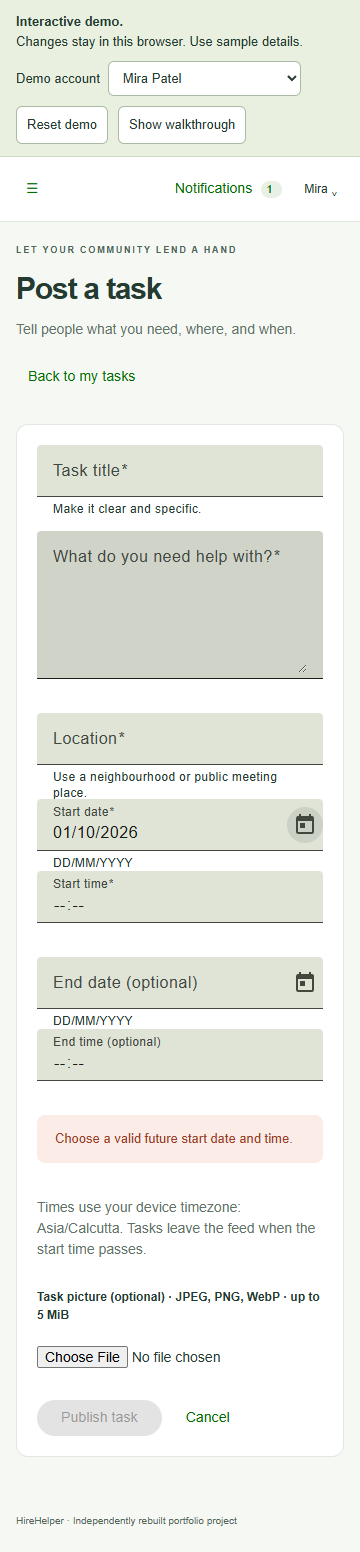
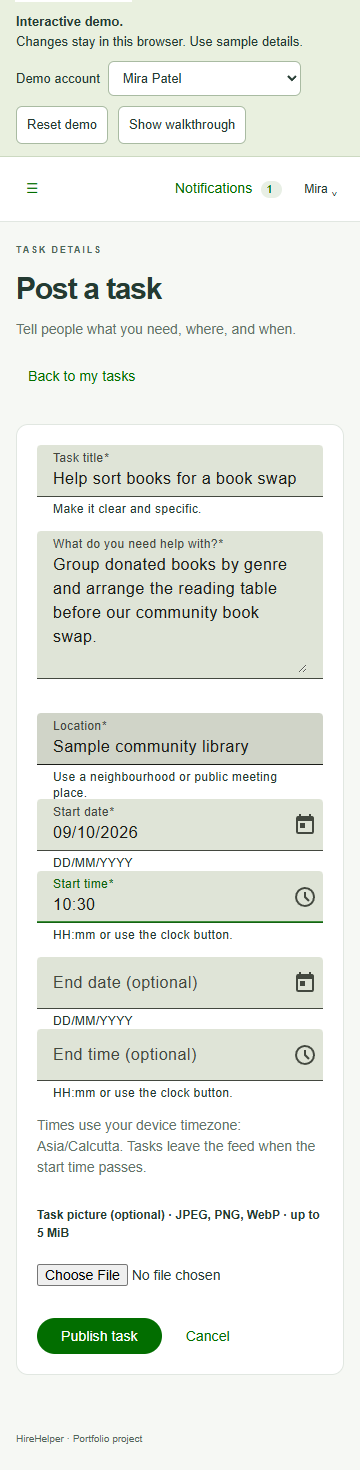
Add task time pickers

diff --git a/apps/web/src/app/task-form.ts b/apps/web/src/app/task-form.ts
@@ -5,6 +5,7 @@ import { MatButtonModule } from '@angular/material/button';
 import { MatFormFieldModule } from '@angular/material/form-field';
 import { MatInputModule } from '@angular/material/input';
 import { MatDatepickerModule } from '@angular/material/datepicker';
+import { MatTimepickerModule } from '@angular/material/timepicker';
 import {
   DateAdapter,
   NativeDateAdapter,
@@ -29,14 +30,16 @@ class TaskDateAdapter extends NativeDateAdapter {
       : new Date(NaN);
   }
 }
-function timestamp(date: Date | null, time: string): Date | null {
+function timestamp(date: Date | null, time: Date | null): Date | null {
   if (
     !(date instanceof Date) ||
     !Number.isFinite(date.getTime()) ||
-    !/^([01]\d|2[0-3]):[0-5]\d$/.test(time)
+    !(time instanceof Date) ||
+    !Number.isFinite(time.getTime())
   )
     return null;
-  const [hours, minutes] = time.split(':').map(Number);
+  const hours = time.getHours(),
+    minutes = time.getMinutes();
   const value = new Date(date.getFullYear(), date.getMonth(), date.getDate(), hours, minutes);
   // Reject a nonexistent local time during a daylight-saving transition.
   return value.getHours() === hours && value.getMinutes() === minutes ? value : null;
@@ -62,6 +65,7 @@ function schedule(control: AbstractControl) {
     MatFormFieldModule,
     MatInputModule,
     MatDatepickerModule,
+    MatTimepickerModule,
   ],
   providers: [
     { provide: DateAdapter, useClass: TaskDateAdapter },
@@ -69,8 +73,10 @@ function schedule(control: AbstractControl) {
     {
       provide: MAT_DATE_FORMATS,
       useValue: {
-        parse: { dateInput: null },
+        parse: { dateInput: null, timeInput: null },
         display: {
+          timeInput: { hour: '2-digit', minute: '2-digit', hourCycle: 'h23' },
+          timeOptionLabel: { hour: '2-digit', minute: '2-digit', hourCycle: 'h23' },
           dateInput: { day: '2-digit', month: '2-digit', year: 'numeric' },
           monthYearLabel: { month: 'short', year: 'numeric' },
           dateA11yLabel: { dateStyle: 'full' },
@@ -122,9 +128,25 @@ function schedule(control: AbstractControl) {
           </mat-form-field>
           <mat-form-field
             ><mat-label>Start time</mat-label
-            ><input matInput type="time" formControlName="startTime" /><mat-error
-              >Enter a start time.</mat-error
-            ></mat-form-field
+            ><input
+              matInput
+              [matTimepicker]="startTimePicker"
+              [matTimepickerOpenOnClick]="false"
+              formControlName="startTime"
+              placeholder="HH:mm"
+            />
+            <mat-timepicker-toggle
+              matIconSuffix
+              [for]="startTimePicker"
+              aria-label="Choose start time"
+            ></mat-timepicker-toggle>
+            <mat-timepicker
+              #startTimePicker
+              interval="15m"
+              aria-label="Start time options"
+            ></mat-timepicker>
+            <mat-hint>HH:mm or use the clock button.</mat-hint
+            ><mat-error>Enter a start time.</mat-error></mat-form-field
           >
         </div>
         <div class="form-row">
@@ -142,8 +164,26 @@ function schedule(control: AbstractControl) {
           </mat-form-field>
           <mat-form-field
             ><mat-label>End time (optional)</mat-label
-            ><input matInput type="time" formControlName="endTime"
-          /></mat-form-field>
+            ><input
+              matInput
+              [matTimepicker]="endTimePicker"
+              [matTimepickerOpenOnClick]="false"
+              formControlName="endTime"
+              placeholder="HH:mm"
+            />
+            <mat-timepicker-toggle
+              matIconSuffix
+              [for]="endTimePicker"
+              aria-label="Choose end time"
+            ></mat-timepicker-toggle>
+            <mat-timepicker
+              #endTimePicker
+              interval="15m"
+              aria-label="End time options"
+            ></mat-timepicker>
+            <mat-hint>HH:mm or use the clock button.</mat-hint
+            ><mat-error>Enter a valid time as HH:mm.</mat-error></mat-form-field
+          >
         </div>
         @if (form.touched && form.errors?.['schedule']) {
           <p class="error" role="alert">{{ form.errors?.['schedule'] }}</p>
@@ -189,9 +229,9 @@ export class TaskForm {
       ],
       location: ['', [Validators.required, Validators.minLength(2), Validators.maxLength(160)]],
       startDate: [null as Date | null, Validators.required],
-      startTime: ['', Validators.required],
+      startTime: [null as Date | null, Validators.required],
       endDate: [null as Date | null],
-      endTime: [''],
+      endTime: [null as Date | null],
     },
     { validators: schedule },
   );
@@ -202,16 +242,14 @@ export class TaskForm {
         .then((t) => {
           const start = new Date(t.startAt),
             end = t.endAt ? new Date(t.endAt) : null;
-          const time = (d: Date) =>
-            `${String(d.getHours()).padStart(2, '0')}:${String(d.getMinutes()).padStart(2, '0')}`;
           this.form.patchValue({
             title: t.title,
             description: t.description,
             location: t.location,
             startDate: start,
-            startTime: time(start),
+            startTime: start,
             endDate: end,
-            endTime: end ? time(end) : '',
+            endTime: end,
           });
           this.imageId = t.imageId;
         })

diff --git a/tests/pages/recovery.spec.ts b/tests/pages/recovery.spec.ts
@@ -35,7 +35,13 @@ test('calendar and typed dates validate and survive editing in device timezone',
   await expect(page.getByRole('button', { name: 'Publish task' })).toBeDisabled();
   await page.getByLabel('End time (optional)', { exact: true }).fill('09:30');
   await expect(page.getByRole('button', { name: 'Publish task' })).toBeDisabled();
-  await page.getByLabel('End time (optional)', { exact: true }).fill('11:30');
+  await page.getByRole('button', { name: 'Choose start time', exact: true }).click();
+  await expect(page.getByRole('listbox', { name: 'Start time options' })).toBeVisible();
+  await page.getByRole('option', { name: '10:30', exact: true }).click();
+  await expect(page.getByLabel('Start time', { exact: true })).toHaveValue('10:30');
+  await page.getByRole('button', { name: 'Choose end time', exact: true }).click();
+  await page.getByRole('option', { name: '11:30', exact: true }).click();
+  await expect(page.getByLabel('End time (optional)', { exact: true })).toHaveValue('11:30');
   await page.getByRole('button', { name: 'Publish task' }).click();
   await expect(page.getByRole('heading', { name: 'Calendar task', exact: true })).toBeVisible();
   await page.getByRole('link', { name: 'Edit task', exact: true }).click();

diff --git a/docs/PROJECT_GUIDE.md b/docs/PROJECT_GUIDE.md
@@ -1,6 +1,6 @@
 # HireHelper — complete project guide
 
-Current deployment update: **Vercel is the primary static demo target; Pages is optional and manual.** See [DEPLOYMENT.md](DEPLOYMENT.md) for exact settings. Both use the browser adapter and hash routes; the full backend remains local. CI now builds both static targets and tests the Vercel artifact. Date entry uses separate calendar and time controls. Demo recovery preserves unreadable saved data until explicit reset, labels memory fallback, and offers explicit refresh of expired open sample dates. Older Pages-specific descriptions below describe that secondary target.
+Current deployment update: **Vercel is the primary static demo target; Pages is optional and manual.** See [DEPLOYMENT.md](DEPLOYMENT.md) for exact settings. Both use the browser adapter and hash routes; the full backend remains local. CI now builds both static targets and tests the Vercel artifact. Date entry uses separate calendars and visible Material clock pickers. Demo recovery preserves unreadable saved data until explicit reset, labels memory fallback, and offers explicit refresh of expired open sample dates. Older Pages-specific descriptions below describe that secondary target.
 
 Documentation reviewed against the current source on **6 October 2026**.
 
@@ -645,7 +645,7 @@ The npm `private: true` field prevents accidental npm package publication; it do
 
 ## 17. Testing and evidence
 
-The Vercel/date update passed nine production-demo browser scenarios locally: calendar/typed date validation and edit round trips, full owner/helper workflow, local images/profile persistence, isolated visitors, reset, malformed/old saved data, labelled memory fallback, quota preservation, expired sample refresh and guided garden completion. The main scenario asserts zero API requests, no EventSource connections and no page errors. Actual form/calendar checks fit 360/768/1440 widths and missing scripts returned 404. Two real Docker browser scenarios also passed against the updated frontend: OTP/task/image/lifecycle/notifications/responsive reloads, and pre-OTP/wrong-code/CSRF rejection. Source lint/type checks, normal builds, four backend units and both static artifact checks passed. Hosted CI and public deployment are still unverified.
+The Vercel/date update passed nine production-demo browser scenarios locally: calendar/typed date validation, selectable start/end times and edit round trips, full owner/helper workflow, local images/profile persistence, isolated visitors, reset, malformed/old saved data, labelled memory fallback, quota preservation, expired sample refresh and guided garden completion. The main scenario asserts zero API requests, no EventSource connections and no page errors. Actual form/calendar checks fit 360/768/1440 widths and missing scripts returned 404. Two real Docker browser scenarios also passed against the updated frontend: OTP/task/image/lifecycle/notifications/responsive reloads, and pre-OTP/wrong-code/CSRF rejection. Source lint/type checks, normal builds, four backend units and both static artifact checks passed. Hosted CI and public deployment are still unverified.
 
 
 ### Commands

diff --git a/README.md b/README.md
@@ -21,6 +21,8 @@ npm run preview:vercel
 
 Open http://localhost:4202/#/login. Choose **Try demo** to enter as Mira. Show the walkthrough, accept Theo's prepared garden offer under Requests, switch to Theo, start work and request completion, then switch to Mira to confirm. You can also post a task, search the feed, upload a local image, inspect notifications and edit a fictional profile. Reset demo restores the prepared example after confirmation.
 
+On Post a task, use the calendar buttons to choose dates and the clock buttons to choose start/end times. Dates can also be typed as `DD/MM/YYYY` and times as `HH:mm`. Time lists use 15-minute steps; typing allows any valid minute. The device timezone is shown beside the form.
+
 ## Two modes
 
 | | Static portfolio demo | Full application, run locally |
